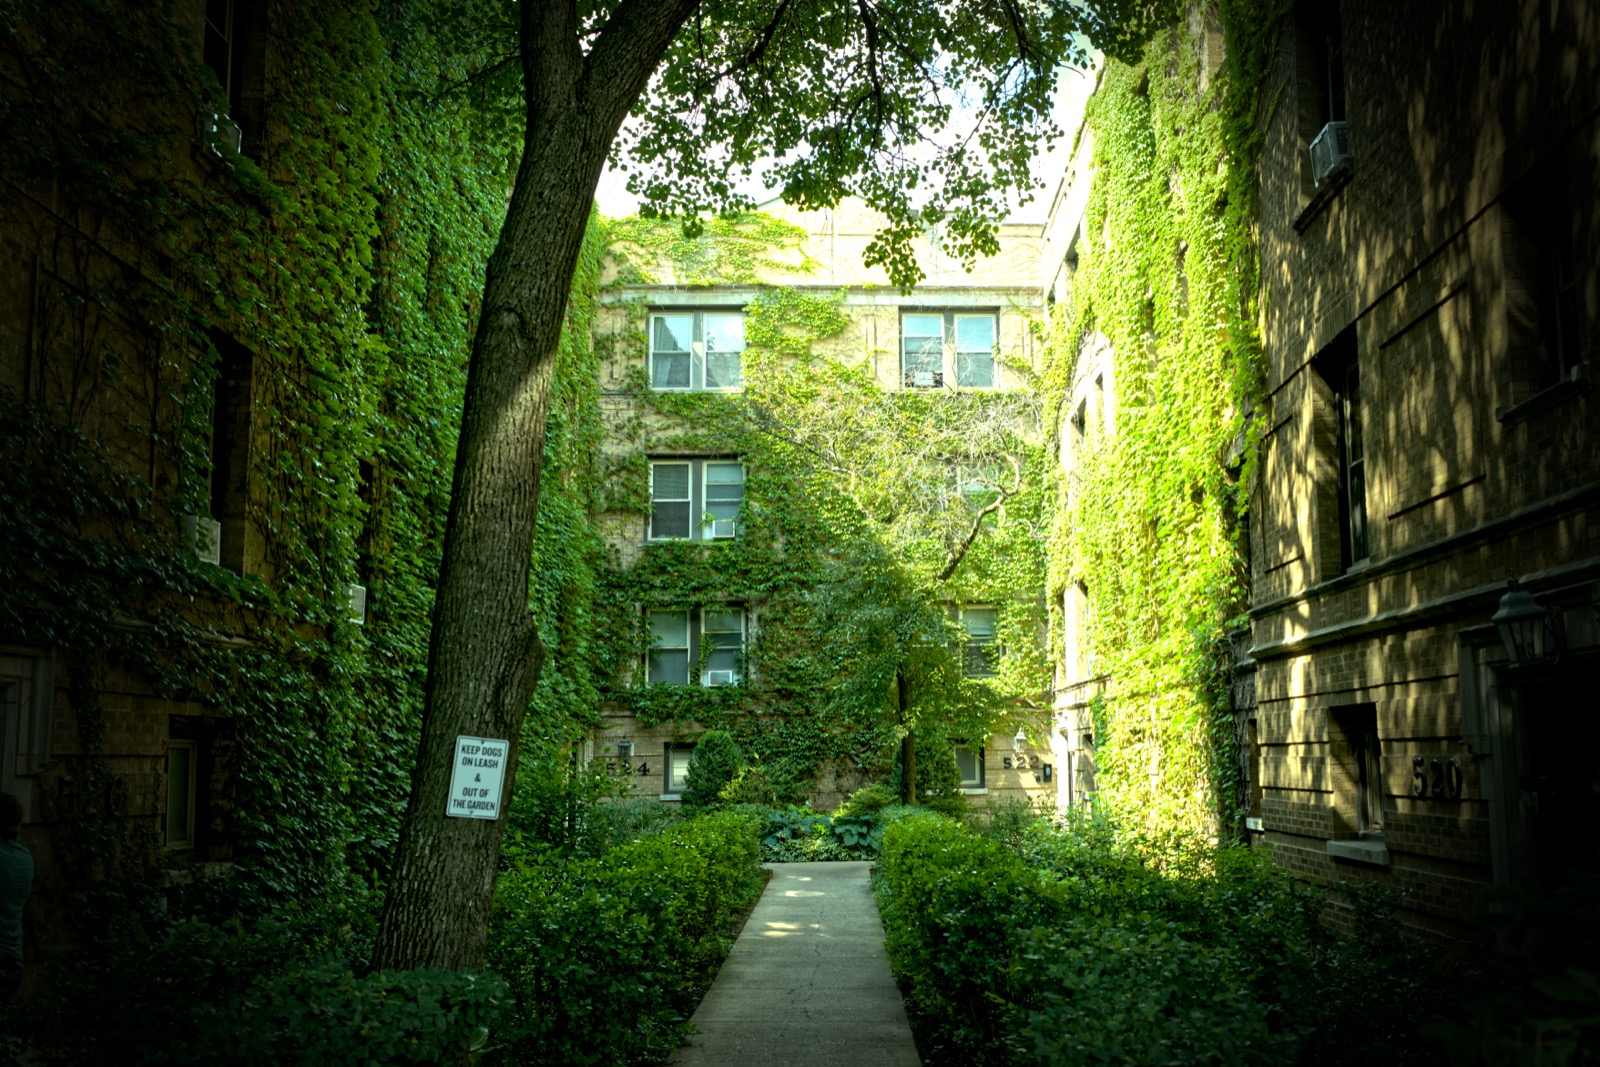
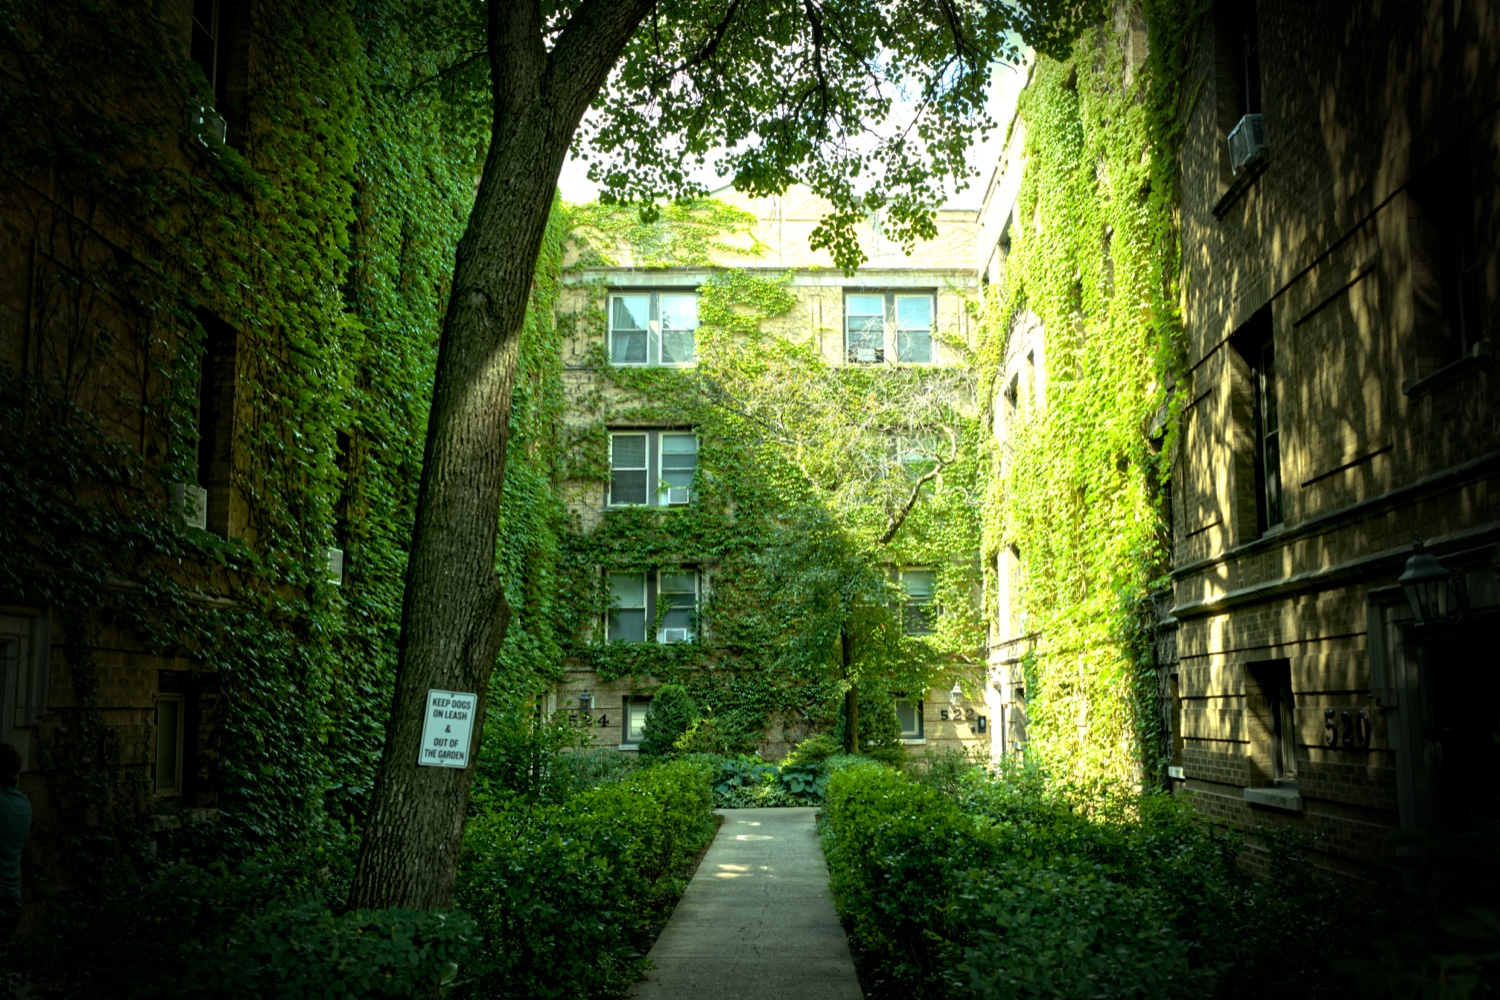
Add WebP via picture, accessibility (skip link/landmarks/lazy), email copy, Calendly, drop MG tag

diff --git a/index.html b/index.html
@@ -18,7 +18,10 @@
 
 <!-- HERO -->
 <section class="hero" aria-label="Tech help you can trust">
-    <img class="hero-img" src="pink-lake.jpg" alt="">
+    <picture>
+        <source srcset="pink-lake.webp" type="image/webp">
+        <img class="hero-img" src="pink-lake.jpg" alt="" fetchpriority="high">
+    </picture>
     <div class="hero-overlay"></div>
 
     <div class="hero-content">
@@ -67,8 +70,10 @@
             <div class="mw-body">
                 <div class="about-grid">
                     <div class="about-photo-wrap">
-                        <img class="about-photo" src="profile.jpg" alt="Michael Gallo portrait">
-                        <span class="about-photo-tag">M.G.</span>
+                        <picture>
+                            <source srcset="profile.webp" type="image/webp">
+                            <img class="about-photo" src="profile.jpg" alt="Michael Gallo portrait" loading="lazy" decoding="async">
+                        </picture>
                         <div class="about-photo-credit">© M. GALLO · WASHINGTON SQ., NYC '25</div>
                     </div>
                     <div class="about-body">
@@ -99,7 +104,10 @@
 
 <!-- DIVIDER -->
 <section class="divider" aria-hidden="true">
-    <img src="ivy-courtyard.jpg" alt="">
+    <picture>
+        <source srcset="ivy-courtyard.webp" type="image/webp">
+        <img src="ivy-courtyard.jpg" alt="" loading="lazy" decoding="async">
+    </picture>
     <div class="divider-overlay"></div>
     <p class="divider-quote">"I want you to feel comfortable asking the question, no matter how small it sounds."</p>
     <div class="credit credit-light">© M.GALLO · CHICAGO '25</div>

diff --git a/styles.css b/styles.css
@@ -456,7 +456,7 @@ section:focus, section:focus-visible { outline: none; }
     display: flex; align-items: center; gap: 8px;
 }
 .mw-lock { color: var(--green); font-size: 10px; }
-.mw-proto { opacity: 0.6; }
+.mw-proto { opacity: 0.85; }
 
 .mw-body {
     background: #fdfcf8;
@@ -478,11 +478,18 @@ section:focus, section:focus-visible { outline: none; }
 }
 .about-photo-wrap:hover { transform: translateY(-2px); }
 
+/* The <picture> wrapper needs to be the flex item that stretches; otherwise
+   the inner <img> only gets its intrinsic size and the photo collapses. */
+.about-photo-wrap picture {
+    display: block;
+    flex: 1 1 auto;
+    min-height: 0;
+    width: 100%;
+}
+
 .about-photo {
     width: 100%;
     height: 100%;
-    flex: 1 1 auto;
-    min-height: 0;
     object-fit: cover;
     object-position: 41% 20%;
     border-radius: 2px;
